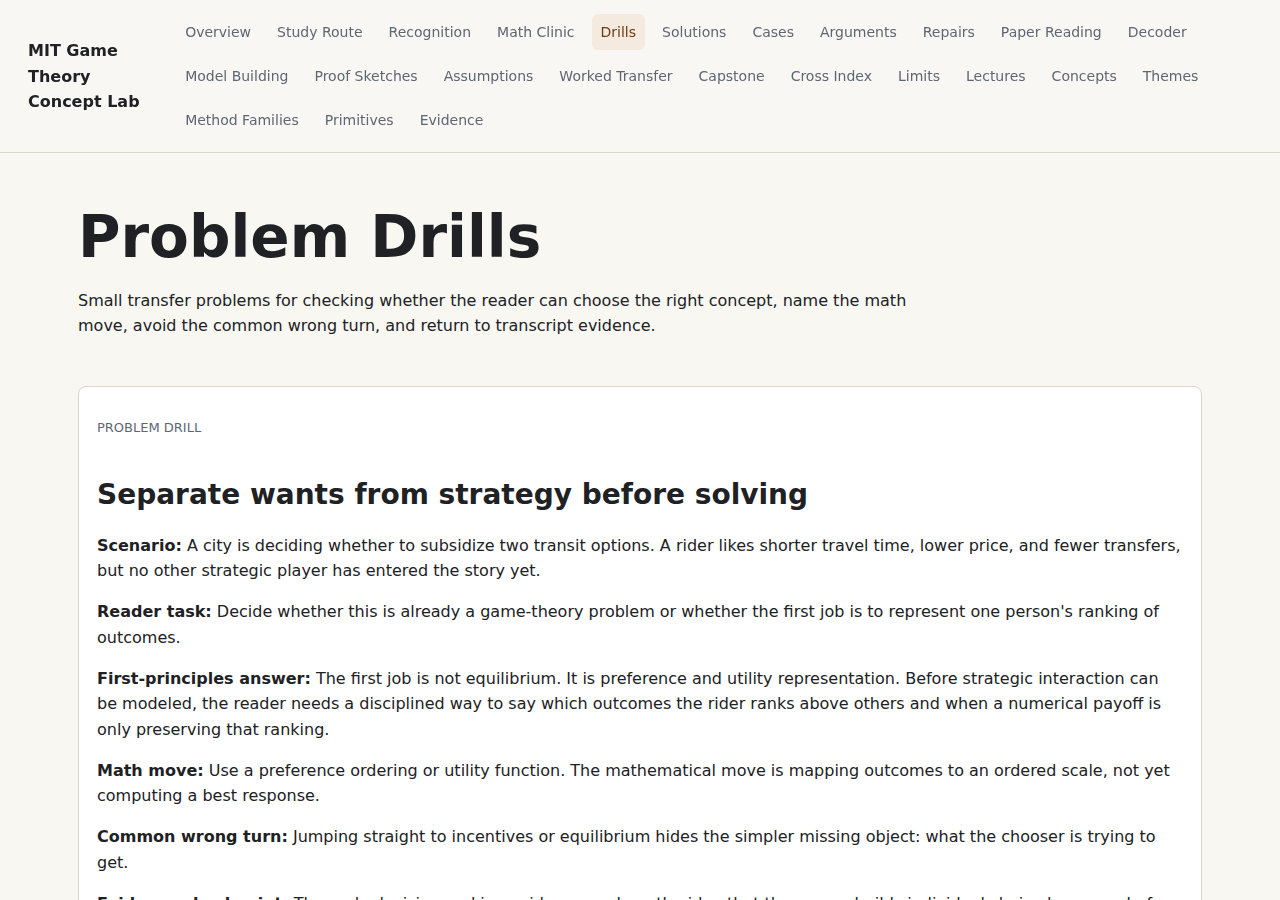
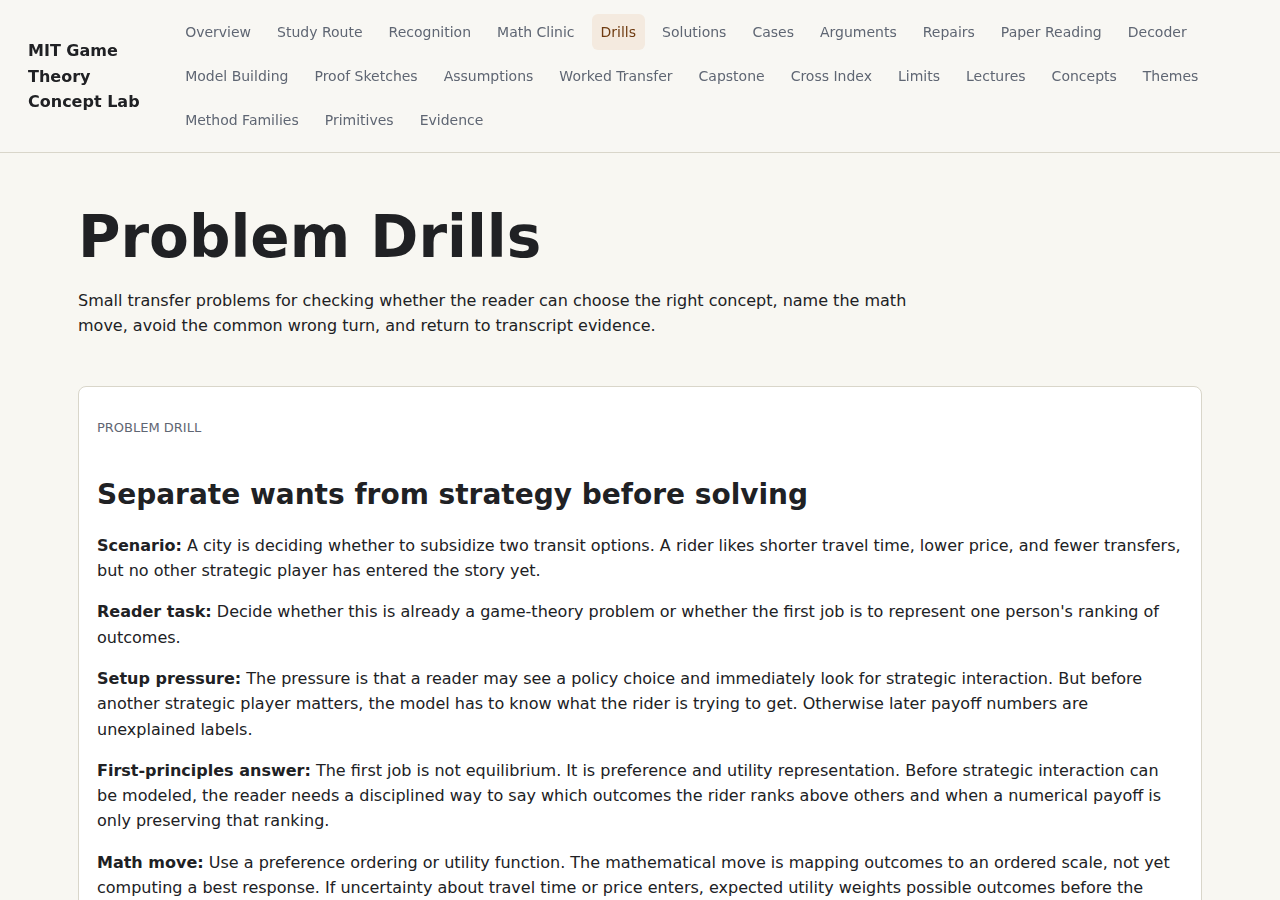
Deepen MIT problem drills

Changed region(s): [[0.0625, 0.7467, 0.9062, 1.0]]

diff --git a/site/drills.html b/site/drills.html
@@ -19,9 +19,13 @@
   <h2>Separate wants from strategy before solving</h2>
   <p><strong>Scenario:</strong> A city is deciding whether to subsidize two transit options. A rider likes shorter travel time, lower price, and fewer transfers, but no other strategic player has entered the story yet.</p>
   <p><strong>Reader task:</strong> Decide whether this is already a game-theory problem or whether the first job is to represent one person&#x27;s ranking of outcomes.</p>
+  <p><strong>Setup pressure:</strong> The pressure is that a reader may see a policy choice and immediately look for strategic interaction. But before another strategic player matters, the model has to know what the rider is trying to get. Otherwise later payoff numbers are unexplained labels.</p>
   <p><strong>First-principles answer:</strong> The first job is not equilibrium. It is preference and utility representation. Before strategic interaction can be modeled, the reader needs a disciplined way to say which outcomes the rider ranks above others and when a numerical payoff is only preserving that ranking.</p>
-  <p><strong>Math move:</strong> Use a preference ordering or utility function. The mathematical move is mapping outcomes to an ordered scale, not yet computing a best response.</p>
-  <p><strong>Common wrong turn:</strong> Jumping straight to incentives or equilibrium hides the simpler missing object: what the chooser is trying to get.</p>
+  <p><strong>Math move:</strong> Use a preference ordering or utility function. The mathematical move is mapping outcomes to an ordered scale, not yet computing a best response. If uncertainty about travel time or price enters, expected utility weights possible outcomes before the rider chooses.</p>
+  <p><strong>Worked resolution:</strong> List the outcomes first: cheap but slow, fast but expensive, fewer transfers but longer walk, and so on. Then ask which outcomes the rider ranks above which. Only after the ranking is represented should the analyst decide whether other players, such as agencies or competing riders, enter the model.</p>
+  <p><strong>Assumption check:</strong> Check whether the utility numbers are being used only to preserve order or whether the argument needs stronger claims about money, welfare, risk, or comparisons across people. If the policy claim compares riders against taxpayers, the model needs more than one rider&#x27;s preference ranking.</p>
+  <p><strong>Common wrong turn:</strong> Jumping straight to incentives or equilibrium hides the simpler missing object: what the chooser is trying to get. It also makes later strategic conclusions look objective even though the payoff construction was never defended.</p>
+  <p><strong>Transfer prompt:</strong> When reading a new model, find the first payoff table and ask: what preference ranking created these numbers, and what real-world comparison would fail if the ranking were wrong?</p>
   <p><strong>Evidence checkpoint:</strong> The early decision-making evidence anchors the idea that the course builds individual choice language before representing strategic games.</p>
   <h3>Concept Pages</h3><p class="chips"><a class="chip" href="concepts/preferences.html">Preferences</a><a class="chip" href="concepts/utility.html">Utility</a><a class="chip" href="concepts/expected_utility.html">Expected Utility</a></p>
   <h3>Reusable Primitives</h3><p class="chips"><a class="chip" href="primitives.html#preference">Preference</a><a class="chip" href="primitives.html#payoff_mapping">Payoff Mapping</a></p>
@@ -31,9 +35,13 @@
   <h2>Choose the representation before choosing the solution</h2>
   <p><strong>Scenario:</strong> A startup may enter a market. The incumbent announces that it will cut prices if entry occurs. The entrant must decide whether the threat should change its entry decision.</p>
   <p><strong>Reader task:</strong> Decide whether a flat payoff table is enough, or whether the situation needs a tree with later decision points.</p>
+  <p><strong>Setup pressure:</strong> The pressure is timing. The threat is spoken before entry, but the costly price cut would be chosen after entry. A flat table can hide that later moment and make the announcement look like a fixed fact instead of a future choice.</p>
   <p><strong>First-principles answer:</strong> The story is about timing and credibility, so a tree is doing real work. The entrant should not merely record the threat; it should ask what the incumbent would want after entry has already happened.</p>
-  <p><strong>Math move:</strong> Use extensive-form representation and backward induction. The mathematical move is solving later continuation choices before assigning meaning to earlier threats.</p>
-  <p><strong>Common wrong turn:</strong> Treating the threat as a fixed payoff-table entry makes an empty threat look like a real constraint.</p>
+  <p><strong>Math move:</strong> Use extensive-form representation and backward induction. The mathematical move is solving later continuation choices before assigning meaning to earlier threats. A threat matters only if it survives the later best-response comparison.</p>
+  <p><strong>Worked resolution:</strong> Draw entrant first: enter or stay out. If entry happens, draw incumbent second: fight or accommodate. Compare the incumbent&#x27;s payoffs at that later node. If accommodation is better after entry is sunk, the entrant should evaluate entry against accommodation, not against the earlier announced fight.</p>
+  <p><strong>Assumption check:</strong> Check whether the incumbent really gets to choose later, whether fighting has extra reputation value outside this market, and whether the entrant understands those payoffs. If an external commitment device exists, the simple tree must be amended.</p>
+  <p><strong>Common wrong turn:</strong> Treating the threat as a fixed payoff-table entry makes an empty threat look like a real constraint. The wrong representation lets early speech do work that later incentives would not support.</p>
+  <p><strong>Transfer prompt:</strong> For any threat in a paper, mark the date when it is spoken and the date when it must be carried out. If those dates differ, test the later node before believing the earlier speech.</p>
   <p><strong>Evidence checkpoint:</strong> The representation and backward-induction evidence anchors support the course&#x27;s shift from games as tables to games as time-ordered decision problems.</p>
   <h3>Concept Pages</h3><p class="chips"><a class="chip" href="concepts/extensive_form_games.html">Extensive Form Games</a><a class="chip" href="concepts/backward_induction.html">Backward Induction</a><a class="chip" href="concepts/subgame_perfection.html">Subgame-Perfect Nash Equilibrium</a></p>
   <h3>Reusable Primitives</h3><p class="chips"><a class="chip" href="primitives.html#backward_recursion">Backward Recursion</a><a class="chip" href="primitives.html#mutual_consistency">Mutual Consistency</a></p>
@@ -43,9 +51,13 @@
   <h2>Delete only after every comparison passes</h2>
   <p><strong>Scenario:</strong> A firm has two pricing actions. High price beats low price when the rival is calm, but low price beats high price when the rival is aggressive.</p>
   <p><strong>Reader task:</strong> Decide whether low price can be deleted as dominated, and name exactly which rival cases must be checked before deletion is legitimate.</p>
+  <p><strong>Setup pressure:</strong> The pressure is the lure of a favorite story. If the rival is probably calm, high price looks attractive. But dominance is not about the most plausible rival action; it is about whether one action loses across the whole action set.</p>
   <p><strong>First-principles answer:</strong> Low price cannot be deleted by dominance. A dominated action must lose against every relevant rival action. Here low price has a case where it performs better, so deleting it would smuggle in a belief about the rival rather than using dominance.</p>
-  <p><strong>Math move:</strong> Use the dominance inequality as a universal comparison across rival actions. The important word is every, not likely.</p>
-  <p><strong>Common wrong turn:</strong> Deleting a move because it loses in the most salient case confuses dominance with prediction.</p>
+  <p><strong>Math move:</strong> Use the dominance inequality as a universal comparison across rival actions. The important word is every, not likely. A belief-weighted expected payoff comparison may come later, but it is a different mathematical move.</p>
+  <p><strong>Worked resolution:</strong> Make two columns: rival calm and rival aggressive. Compare high price versus low price in each column. High price wins in the calm column, but low price wins in the aggressive column. Since each action has a column where it can be defended, neither action is removed by dominance.</p>
+  <p><strong>Assumption check:</strong> Check whether the rival&#x27;s listed actions are complete and whether the payoff entries use the right objective. A missing rival action can make deletion look valid, and a wrong payoff mapping can prune the action that would matter in the real situation.</p>
+  <p><strong>Common wrong turn:</strong> Deleting a move because it loses in the most salient case confuses dominance with prediction. That shortcut turns a model-free deletion rule into an unstated belief assumption.</p>
+  <p><strong>Transfer prompt:</strong> When reading a proof that deletes strategies, underline the comparison set. If the proof does not compare against every relevant opponent action, keep the strategy alive and ask what belief or equilibrium argument replaces dominance.</p>
   <p><strong>Evidence checkpoint:</strong> The dominance and rationalizability evidence anchors support the distinction between ruling out impossible-to-justify moves and reasoning from beliefs.</p>
   <h3>Concept Pages</h3><p class="chips"><a class="chip" href="concepts/dominance.html">Dominance</a><a class="chip" href="concepts/iterated_deletion.html">Iterated Deletion</a><a class="chip" href="concepts/rationalizability.html">Rationalizability</a></p>
   <h3>Reusable Primitives</h3><p class="chips"><a class="chip" href="primitives.html#pruning">Pruning</a><a class="chip" href="primitives.html#belief">Belief</a></p>
@@ -55,9 +67,13 @@
   <h2>Check stability without confusing it with goodness</h2>
   <p><strong>Scenario:</strong> Two firms both choose an aggressive price. Both would earn more if both chose a softer price, but either firm would gain by undercutting if the other stayed soft.</p>
   <p><strong>Reader task:</strong> Explain why the aggressive outcome might be a Nash equilibrium even though both firms dislike it relative to coordinated softness.</p>
+  <p><strong>Setup pressure:</strong> The pressure is that the cooperative outcome sounds better for everyone, so it feels like it should be the prediction. Game theory separates that welfare comparison from the stability question: what can one player gain by moving alone?</p>
   <p><strong>First-principles answer:</strong> Nash equilibrium is a unilateral deviation test, not a test of collective welfare. If each firm is doing the best it can given the other&#x27;s aggressive price, the outcome can be stable even when the firms would jointly prefer another outcome.</p>
-  <p><strong>Math move:</strong> Use best responses and mutual consistency. Hold the other firm fixed, check one player&#x27;s profitable deviations, then repeat for the other player.</p>
-  <p><strong>Common wrong turn:</strong> Rejecting an equilibrium because it is inefficient mistakes a prediction test for a social-desirability test.</p>
+  <p><strong>Math move:</strong> Use best responses and mutual consistency. Hold the other firm fixed, check one player&#x27;s profitable deviations, then repeat for the other player. The proposed outcome passes only if no single-player change improves payoff.</p>
+  <p><strong>Worked resolution:</strong> At aggressive-aggressive, freeze firm B at aggressive and ask whether firm A would rather switch. Then freeze firm A at aggressive and ask the same for B. If neither switch helps, the outcome is Nash. The fact that both would prefer soft-soft is a separate collective comparison.</p>
+  <p><strong>Assumption check:</strong> Check whether firms can coordinate, whether side agreements are allowed, whether actions are simultaneous, and whether repeated punishment exists. A one-shot Nash check deliberately ignores joint deviations and future discipline unless the model adds them.</p>
+  <p><strong>Common wrong turn:</strong> Rejecting an equilibrium because it is inefficient mistakes a prediction test for a social-desirability test. The model can predict an outcome precisely because every individual escape route is blocked.</p>
+  <p><strong>Transfer prompt:</strong> In a new model, write two headings: unilateral stability and welfare. Do not let a result under one heading answer the other unless the paper explicitly proves the connection.</p>
   <p><strong>Evidence checkpoint:</strong> The Nash and best-response evidence anchors support the course&#x27;s distinction between stable prediction and desirable outcome.</p>
   <h3>Concept Pages</h3><p class="chips"><a class="chip" href="concepts/best_response.html">Best Response</a><a class="chip" href="concepts/nash_equilibrium.html">Nash Equilibrium</a><a class="chip" href="concepts/imperfect_competition.html">Imperfect Competition</a></p>
   <h3>Reusable Primitives</h3><p class="chips"><a class="chip" href="primitives.html#best_response">Best Response</a><a class="chip" href="primitives.html#mutual_consistency">Mutual Consistency</a><a class="chip" href="primitives.html#payoff_mapping">Payoff Mapping</a></p>
@@ -67,9 +83,13 @@
   <h2>Compare today&#x27;s temptation with tomorrow&#x27;s punishment</h2>
   <p><strong>Scenario:</strong> Two sellers have quietly kept prices high for months. One seller can gain today by secretly cutting price, but the other seller would retaliate with low prices afterward.</p>
   <p><strong>Reader task:</strong> Decide what calculation determines whether cooperation can survive, and identify the one-time temptation and future punishment terms.</p>
+  <p><strong>Setup pressure:</strong> The pressure is that cheating is immediate while punishment is delayed. Repeated interaction only changes present behavior if the future loss is large enough after discounting and if the punishment can actually be triggered.</p>
   <p><strong>First-principles answer:</strong> The question is whether the future loss from punishment is large enough to outweigh the one-time gain from cheating. Repeated interaction does not automatically create discipline; patience and the punishment path matter.</p>
-  <p><strong>Math move:</strong> Use a discounted payoff comparison. Current gains count fully, future gains or losses are multiplied by powers of the discount factor.</p>
-  <p><strong>Common wrong turn:</strong> Saying cooperation is possible because the game repeats skips the actual incentive comparison.</p>
+  <p><strong>Math move:</strong> Use a discounted payoff comparison. Current gains count fully, future gains or losses are multiplied by powers of the discount factor. The cooperation condition is an incentive constraint: stay payoff must beat cheat-now payoff plus future punishment.</p>
+  <p><strong>Worked resolution:</strong> Name the pieces. Cheating gives an extra gain today. Punishment lowers later payoffs. If the seller values future periods heavily, the stream of lost future profit can outweigh today&#x27;s gain. If the seller is impatient or expects the relationship to end soon, cheating can still win.</p>
+  <p><strong>Assumption check:</strong> Check whether cheating is observed, whether retaliation is credible, whether the game has a known final period, and whether the discount factor is high enough. Without those assumptions, future discipline may be an attractive story but not a solved equilibrium.</p>
+  <p><strong>Common wrong turn:</strong> Saying cooperation is possible because the game repeats skips the actual incentive comparison. Repetition supplies possible future consequences; it does not automatically make those consequences strong enough.</p>
+  <p><strong>Transfer prompt:</strong> When a paper invokes future discipline, locate the deviation payoff, cooperative continuation payoff, punishment continuation payoff, monitoring rule, and discount factor. The mechanism lives in that comparison.</p>
   <p><strong>Evidence checkpoint:</strong> The repeated-games and cartel evidence anchors support the course&#x27;s focus on future incentives as a mechanism, not a slogan.</p>
   <h3>Concept Pages</h3><p class="chips"><a class="chip" href="concepts/infinitely_repeated_games.html">Infinitely Repeated Games</a><a class="chip" href="concepts/folk_theorem.html">Folk Theorem</a><a class="chip" href="concepts/implicit_cartels.html">Implicit Cartels</a></p>
   <h3>Reusable Primitives</h3><p class="chips"><a class="chip" href="primitives.html#discounting">Discounting</a><a class="chip" href="primitives.html#incentive_compatibility">Incentive Compatibility</a></p>
@@ -79,9 +99,13 @@
   <h2>Treat behavior as both choice and evidence</h2>
   <p><strong>Scenario:</strong> A used-car seller chooses whether to offer a warranty. Buyers know that reliable sellers find warranties cheaper than unreliable sellers.</p>
   <p><strong>Reader task:</strong> Explain why the warranty decision can change buyer beliefs and why not every message would work the same way.</p>
+  <p><strong>Setup pressure:</strong> The pressure is hidden type. Buyers cannot inspect quality directly, so they try to learn from behavior. But behavior is chosen strategically, which means the same action is informative only if different types have different incentives to take it.</p>
   <p><strong>First-principles answer:</strong> The seller&#x27;s action is informative because different hidden types face different costs. A signal works when the types do not all want to mimic each other in the same way.</p>
-  <p><strong>Math move:</strong> Use beliefs over types plus incentive compatibility. The reader should ask how likely each type is to choose the observed action and whether imitation is profitable.</p>
+  <p><strong>Math move:</strong> Use beliefs over types plus incentive compatibility. The reader should ask how likely each type is to choose the observed action and whether imitation is profitable. Belief updating and incentive checks have to agree.</p>
+  <p><strong>Worked resolution:</strong> Suppose reliable sellers expect warranty costs of 1 and unreliable sellers expect warranty costs of 8. If the warranty raises price by 4, reliable sellers want it and unreliable sellers do not. Buyers can then treat the warranty as evidence of reliability because imitation is too costly for the bad type.</p>
+  <p><strong>Assumption check:</strong> Check whether buyers observe the warranty, whether repair costs really differ by type, whether the price premium is large enough, and whether low-quality sellers can cheaply mimic. If imitation is cheap, the signal loses force.</p>
   <p><strong>Common wrong turn:</strong> Treating the warranty as a direct statement of quality ignores the incentive problem: low-quality sellers may want to imitate unless the cost structure stops them.</p>
+  <p><strong>Transfer prompt:</strong> When a paper calls an action a signal, ask which type finds the action cheaper or more valuable, and write the imitation check before accepting the interpretation.</p>
   <p><strong>Evidence checkpoint:</strong> The Bayesian, type, and signaling evidence anchors support the course&#x27;s treatment of hidden information as a joint problem of choice and interpretation.</p>
   <h3>Concept Pages</h3><p class="chips"><a class="chip" href="concepts/types_and_beliefs.html">Types And Beliefs</a><a class="chip" href="concepts/perfect_bayesian_equilibrium.html">Perfect Bayesian Equilibrium</a><a class="chip" href="concepts/signaling.html">Signaling</a></p>
   <h3>Reusable Primitives</h3><p class="chips"><a class="chip" href="primitives.html#belief">Belief</a><a class="chip" href="primitives.html#incentive_compatibility">Incentive Compatibility</a></p>
@@ -91,9 +115,13 @@
   <h2>Read auction rules as incentive machines</h2>
   <p><strong>Scenario:</strong> A platform changes from a second-price ad auction to a rule that weights bids by predicted click quality. Advertisers respond by changing bids and ad designs.</p>
   <p><strong>Reader task:</strong> Identify why this is not only a pricing change but a mechanism-design problem.</p>
+  <p><strong>Setup pressure:</strong> The pressure is that a rule changes behavior. Advertisers respond not only to prices but to ranking, payment, click probability, quality score, and the chance that a different action changes allocation.</p>
   <p><strong>First-principles answer:</strong> The rule changes how private values, bids, quality, allocation, and payment interact. The central issue is whether each advertiser&#x27;s self-interested response produces the platform&#x27;s intended allocation and revenue properties.</p>
-  <p><strong>Math move:</strong> Use expected payment and incentive compatibility. Separate the event of winning, the price paid if winning, and how the rule changes the probability of winning.</p>
-  <p><strong>Common wrong turn:</strong> Looking only at the winning bid misses the strategic response created by the allocation rule.</p>
+  <p><strong>Math move:</strong> Use expected payment and incentive compatibility. Separate the event of winning, the price paid if winning, and how the rule changes the probability of winning. Then ask whether truthful or shaded behavior is privately sensible.</p>
+  <p><strong>Worked resolution:</strong> Break the rule into allocation and payment. If a higher bid or better ad quality raises the chance of winning, compute the extra value from that higher chance. Then compare it with the extra expected payment. The platform&#x27;s design goal is achieved only if those private calculations induce the desired ranking.</p>
+  <p><strong>Assumption check:</strong> Check whether bidders know their values, whether quality scores are fixed or manipulable, whether payment is first-price or second-price-like, and whether the revenue-equivalence assumptions actually hold. Auction labels are not enough.</p>
+  <p><strong>Common wrong turn:</strong> Looking only at the winning bid misses the strategic response created by the allocation rule. The mechanism is the whole mapping from bids and qualities to slots and payments.</p>
+  <p><strong>Transfer prompt:</strong> For any auction-like system, write the allocation rule and payment rule in plain language before solving. Then ask what action each participant can change to improve expected payoff.</p>
   <p><strong>Evidence checkpoint:</strong> The auction, revenue-equivalence, and ad-auction evidence anchors support the course&#x27;s treatment of rules as incentive-shaping objects.</p>
   <h3>Concept Pages</h3><p class="chips"><a class="chip" href="concepts/auctions.html">Auctions</a><a class="chip" href="concepts/revenue_equivalence.html">Revenue Equivalence</a><a class="chip" href="concepts/ad_auctions.html">Ad Auctions</a></p>
   <h3>Reusable Primitives</h3><p class="chips"><a class="chip" href="primitives.html#incentive_compatibility">Incentive Compatibility</a><a class="chip" href="primitives.html#belief">Belief</a><a class="chip" href="primitives.html#payoff_mapping">Payoff Mapping</a></p>
@@ -103,9 +131,13 @@
   <h2>Distinguish private knowledge from common knowledge</h2>
   <p><strong>Scenario:</strong> Every trader has quietly heard that a policy change is coming, but nobody knows whether the others have heard it. Later, the regulator announces the same fact publicly.</p>
   <p><strong>Reader task:</strong> Explain why the public announcement can change behavior even if the factual content was already privately known.</p>
+  <p><strong>Setup pressure:</strong> The pressure is coordination under uncertainty about other people&#x27;s knowledge. A trader&#x27;s best action may depend less on the fact itself than on whether others know the fact and know that others know it.</p>
   <p><strong>First-principles answer:</strong> The announcement changes higher-order knowledge. After the public event, each trader knows the others heard it and can reason about the others reasoning from it.</p>
-  <p><strong>Math move:</strong> Use knowledge recursion: the fact, everyone knows the fact, everyone knows everyone knows it, and so on.</p>
-  <p><strong>Common wrong turn:</strong> Saying the announcement adds no information because the fact was already true ignores the publicness needed for coordination.</p>
+  <p><strong>Math move:</strong> Use knowledge recursion: the fact, everyone knows the fact, everyone knows everyone knows it, and so on. The mathematical object exists because private information and public information can support different strategic behavior.</p>
+  <p><strong>Worked resolution:</strong> Before the announcement, selling may be risky because a trader is unsure whether others will also react. After the announcement, the trader can expect others to have the same public starting point. The first-order fact did not change, but the belief hierarchy did.</p>
+  <p><strong>Assumption check:</strong> Check whether the announcement is public, whether everyone interprets it similarly, and whether coordinated action is payoff-relevant. If the message is private, ambiguous, or not trusted, common-knowledge reasoning is too strong.</p>
+  <p><strong>Common wrong turn:</strong> Saying the announcement adds no information because the fact was already true ignores the publicness needed for coordination. The relevant object is not just the fact; it is shared awareness of the fact.</p>
+  <p><strong>Transfer prompt:</strong> When a model uses a public signal, ask whether it changes first-order belief, higher-order belief, credibility, or all three. Do not collapse private knowledge and common knowledge.</p>
   <p><strong>Evidence checkpoint:</strong> The common-knowledge evidence anchor supports the course&#x27;s distinction between knowing a fact and sharing the recursive awareness needed for strategic coordination.</p>
   <h3>Concept Pages</h3><p class="chips"><a class="chip" href="concepts/common_knowledge.html">Common Knowledge</a><a class="chip" href="concepts/cheap_talk.html">Cheap Talk</a><a class="chip" href="concepts/nash_equilibrium.html">Nash Equilibrium</a></p>
   <h3>Reusable Primitives</h3><p class="chips"><a class="chip" href="primitives.html#knowledge_recursion">Knowledge Recursion</a><a class="chip" href="primitives.html#belief">Belief</a><a class="chip" href="primitives.html#mutual_consistency">Mutual Consistency</a></p>

diff --git a/scripts/validate_site.py b/scripts/validate_site.py
@@ -230,13 +230,15 @@ def main() -> int:
     for drill in drills:
         if f'id="{drill["id"]}"' not in drills_html:
             errors.append(f"problem drill not rendered: {drill['id']}")
-        for field in ["scenario", "reader_task", "first_principles_answer", "math_move", "common_wrong_turn", "evidence_checkpoint"]:
+        fields = ["scenario", "reader_task", "setup_pressure", "first_principles_answer", "math_move", "worked_resolution", "assumption_check", "common_wrong_turn", "transfer_prompt", "evidence_checkpoint"]
+        for field in fields:
             value = drill.get(field, "")
-            if words(value) < 12:
+            minimum = 12 if field in ["scenario", "reader_task", "evidence_checkpoint"] else 24
+            if words(value) < minimum:
                 errors.append(f"problem drill {drill['id']} has shallow {field}")
             elif html.escape(value, quote=True) not in drills_html:
                 errors.append(f"problem drill {drill['id']} {field} not rendered")
-        if words(" ".join(str(drill.get(field, "")) for field in ["scenario", "first_principles_answer", "math_move", "common_wrong_turn", "evidence_checkpoint"])) < 105:
+        if words(" ".join(str(drill.get(field, "")) for field in fields)) < 285:
             errors.append(f"problem drill {drill['id']} has shallow combined treatment")
         for concept_id in drill.get("concepts", []):
             if concept_id not in concept_by_id:

diff --git a/scripts/audit_editorial_quality.py b/scripts/audit_editorial_quality.py
@@ -354,11 +354,11 @@ def main() -> int:
             errors.append(f"problem drill {drill['id']} not rendered")
         text = " ".join(
             str(drill.get(k, ""))
-            for k in ["scenario", "reader_task", "first_principles_answer", "math_move", "common_wrong_turn", "evidence_checkpoint"]
+            for k in ["scenario", "reader_task", "setup_pressure", "first_principles_answer", "math_move", "worked_resolution", "assumption_check", "common_wrong_turn", "transfer_prompt", "evidence_checkpoint"]
         )
         treatment_words = words(text)
         drill_words.append(treatment_words)
-        if treatment_words < 105:
+        if treatment_words < 285:
             errors.append(f"problem drill {drill['id']} has shallow treatment: {treatment_words} words")
         linked_concepts = [cid for cid in drill.get("concepts", []) if f'href="concepts/{cid}.html"' in drills_html]
         linked_primitives = [pid for pid in drill.get("primitives", []) if f'href="primitives.html#{pid}"' in drills_html]

diff --git a/scripts/build_site.py b/scripts/build_site.py
@@ -382,9 +382,13 @@ def build_problem_drills(drills, concept_by_id, primitive_by_id, ev_by_id):
   <h2>{esc(drill["title"])}</h2>
   <p><strong>Scenario:</strong> {esc(drill["scenario"])}</p>
   <p><strong>Reader task:</strong> {esc(drill["reader_task"])}</p>
+  <p><strong>Setup pressure:</strong> {esc(drill["setup_pressure"])}</p>
   <p><strong>First-principles answer:</strong> {esc(drill["first_principles_answer"])}</p>
   <p><strong>Math move:</strong> {esc(drill["math_move"])}</p>
+  <p><strong>Worked resolution:</strong> {esc(drill["worked_resolution"])}</p>
+  <p><strong>Assumption check:</strong> {esc(drill["assumption_check"])}</p>
   <p><strong>Common wrong turn:</strong> {esc(drill["common_wrong_turn"])}</p>
+  <p><strong>Transfer prompt:</strong> {esc(drill["transfer_prompt"])}</p>
   <p><strong>Evidence checkpoint:</strong> {esc(drill["evidence_checkpoint"])}</p>
   <h3>Concept Pages</h3><p class="chips">{concept_links}</p>
   <h3>Reusable Primitives</h3><p class="chips">{primitive_links}</p>

diff --git a/analysis/audits/site-render-report.md b/analysis/audits/site-render-report.md
@@ -12,7 +12,7 @@ Playwright render audit for representative desktop and mobile pages.
 - desktop-study-route: `study-route.html`, viewport 1280,900, captured 1280x900, 149361 bytes
 - desktop-recognition: `recognition.html`, viewport 1280,900, captured 1280x900, 151160 bytes
 - desktop-math-clinic: `math-clinic.html`, viewport 1280,900, captured 1280x900, 144019 bytes
-- desktop-drills: `drills.html`, viewport 1280,900, captured 1280x900, 133988 bytes
+- desktop-drills: `drills.html`, viewport 1280,900, captured 1280x900, 148307 bytes
 - desktop-solutions: `solutions.html`, viewport 1280,900, captured 1280x900, 155765 bytes
 - desktop-cases: `cases.html`, viewport 1280,900, captured 1280x900, 148459 bytes
 - desktop-argument-chains: `argument-chains.html`, viewport 1280,900, captured 1280x900, 130902 bytes

diff --git a/analysis/audits/editorial-quality-report.md b/analysis/audits/editorial-quality-report.md
@@ -40,7 +40,7 @@ This static audit checks explanatory depth, required teaching sections, evidence
 - Math clinic concept links: 26
 - Math clinic evidence links: 26
 - Problem drill cards: 8
-- Problem drill words: min 129, max 157
+- Problem drill words: min 301, max 356
 - Problem drill concept links: 24
 - Problem drill primitive links: 19
 - Problem drill evidence links: 24
